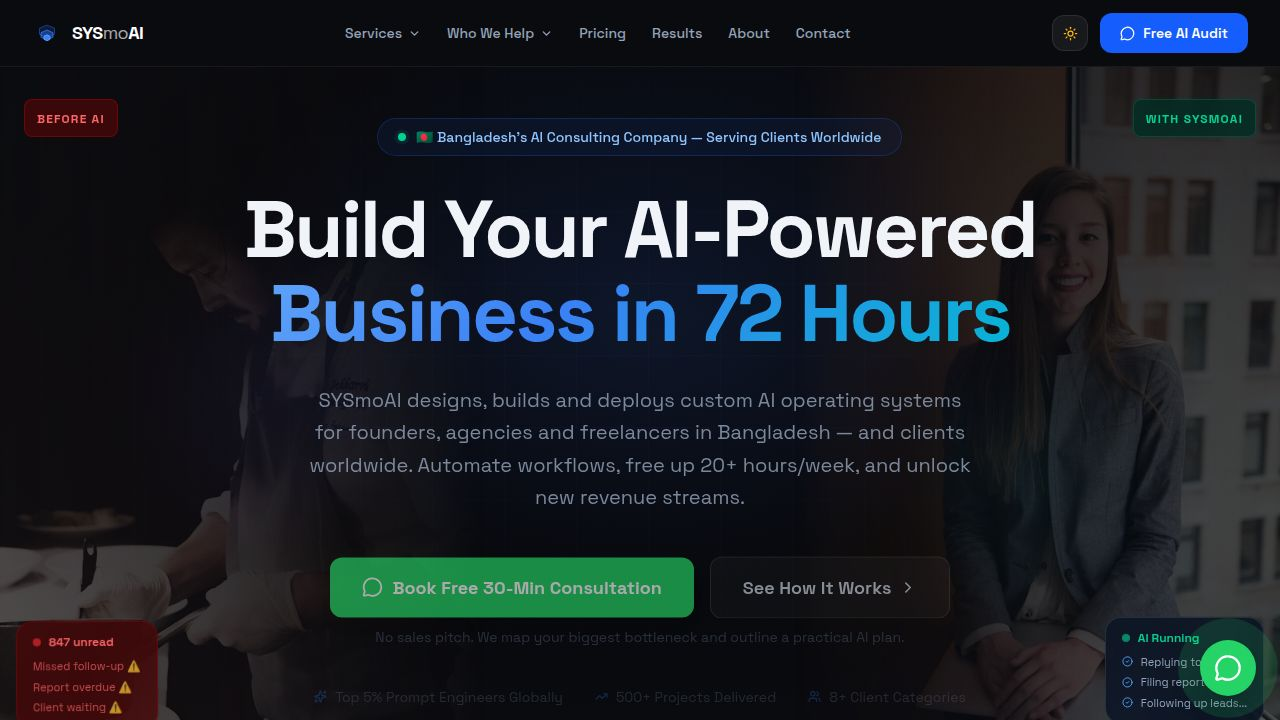
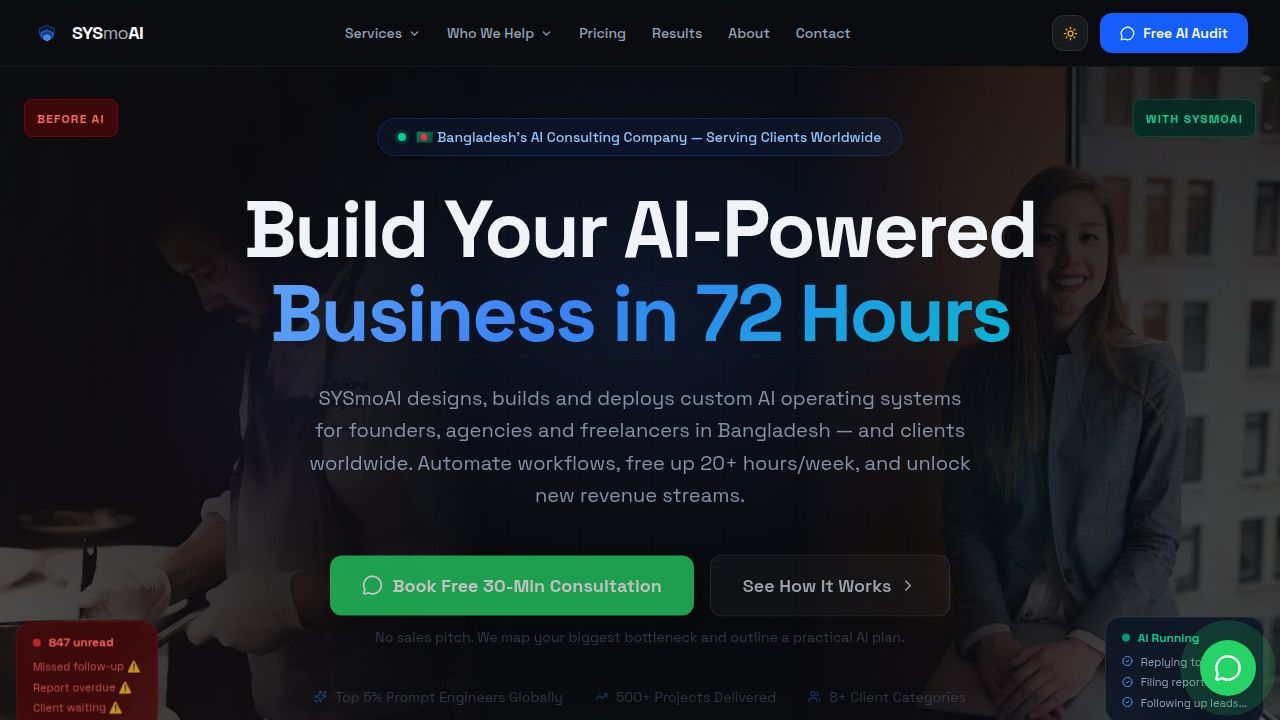
Make skill tags clickable and clean up footer social links
Remove Instagram from footer social links and convert skill tags in Home.tsx to clickable links.

Replit-Commit-Author: Agent
Replit-Commit-Session-Id: 44d8bef4-fb65-4180-9b65-3dc5a3072386
Replit-Commit-Checkpoint-Type: full_checkpoint
Replit-Commit-Event-Id: ed8a9fc4-0653-4cea-8cf8-d844c9018726
Replit-Commit-Screenshot-Url: https://storage.googleapis.com/screenshot-production-us-central1/dfec9785-d152-43c8-b92b-7e0191723b47/44d8bef4-fb65-4180-9b65-3dc5a3072386/eq0ZuDv
Replit-Helium-Checkpoint-Created: true

Changed region(s): [[0.25, 0.5194, 0.75, 0.7028], [0.25, 0.7639, 0.5312, 0.8556], [0.5625, 0.7944, 0.7188, 0.825]]

diff --git a/artifacts/sysmoai-website/src/components/Footer.tsx b/artifacts/sysmoai-website/src/components/Footer.tsx
@@ -68,17 +68,6 @@ export function Footer() {
                   <path d="M20.447 20.452h-3.554v-5.569c0-1.328-.027-3.037-1.852-3.037-1.853 0-2.136 1.445-2.136 2.939v5.667H9.351V9h3.414v1.561h.046c.477-.9 1.637-1.85 3.37-1.85 3.601 0 4.267 2.37 4.267 5.455v6.286zM5.337 7.433c-1.144 0-2.063-.926-2.063-2.065 0-1.138.92-2.063 2.063-2.063 1.14 0 2.064.925 2.064 2.063 0 1.139-.925 2.065-2.064 2.065zm1.782 13.019H3.555V9h3.564v11.452zM22.225 0H1.771C.792 0 0 .774 0 1.729v20.542C0 23.227.792 24 1.771 24h20.451C23.2 24 24 23.227 24 22.271V1.729C24 .774 23.2 0 22.222 0h.003z"/>
                 </svg>
               </a>
-              <a href="https://www.instagram.com/sysmoai/"
-                target="_blank" rel="noopener noreferrer"
-                aria-label="SYSmoAI on Instagram"
-                className="w-10 h-10 rounded-lg flex items-center justify-center transition-all duration-200"
-                style={{ background: isDark ? 'rgba(255,255,255,0.06)' : '#F1F5F9', color: textColor }}
-                onMouseEnter={e => { e.currentTarget.style.background = '#E1306C'; e.currentTarget.style.color = '#FFFFFF'; }}
-                onMouseLeave={e => { e.currentTarget.style.background = isDark ? 'rgba(255,255,255,0.06)' : '#F1F5F9'; e.currentTarget.style.color = textColor; }}>
-                <svg className="w-5 h-5" fill="currentColor" viewBox="0 0 24 24">
-                  <path d="M12 2.163c3.204 0 3.584.012 4.85.07 3.252.148 4.771 1.691 4.919 4.919.058 1.265.069 1.645.069 4.849 0 3.205-.012 3.584-.069 4.849-.149 3.225-1.664 4.771-4.919 4.919-1.266.058-1.644.07-4.85.07-3.204 0-3.584-.012-4.849-.07-3.26-.149-4.771-1.699-4.919-4.92-.058-1.265-.07-1.644-.07-4.849 0-3.204.013-3.583.07-4.849.149-3.227 1.664-4.771 4.919-4.919 1.266-.057 1.645-.069 4.849-.069zm0-2.163c-3.259 0-3.667.014-4.947.072-4.358.2-6.78 2.618-6.98 6.98-.059 1.281-.073 1.689-.073 4.948 0 3.259.014 3.668.072 4.948.2 4.358 2.618 6.78 6.98 6.98 1.281.058 1.689.072 4.948.072 3.259 0 3.668-.014 4.948-.072 4.354-.2 6.782-2.618 6.979-6.98.059-1.28.073-1.689.073-4.948 0-3.259-.014-3.667-.072-4.947-.196-4.354-2.617-6.78-6.979-6.98-1.281-.059-1.69-.073-4.949-.073zm0 5.838c-3.403 0-6.162 2.759-6.162 6.162s2.759 6.163 6.162 6.163 6.162-2.759 6.162-6.163c0-3.403-2.759-6.162-6.162-6.162zm0 10.162c-2.209 0-4-1.79-4-4 0-2.209 1.791-4 4-4s4 1.791 4 4c0 2.21-1.791 4-4 4zm6.406-11.845c-.796 0-1.441.645-1.441 1.44s.645 1.44 1.441 1.44c.795 0 1.439-.645 1.439-1.44s-.644-1.44-1.439-1.44z"/>
-                </svg>
-              </a>
               <a href="https://www.youtube.com/@sysmoai"
                 target="_blank" rel="noopener noreferrer"
                 aria-label="SYSmoAI on YouTube"

diff --git a/artifacts/sysmoai-website/src/pages/Home.tsx b/artifacts/sysmoai-website/src/pages/Home.tsx
@@ -1071,21 +1071,35 @@ export default function Home() {
               </blockquote>
               <div className="flex flex-wrap gap-2">
                 {[
-                  'AI Systems Architecture', 'Top 5% Prompt Engineering', 'Notion OS',
-                  'n8n Automation', 'AI Agent Design', '500+ Projects Delivered',
-                  'SEO Expert', 'AI Coaching',
+                  { label: 'AI Systems Architecture',    href: '/services/ai-sprint'     },
+                  { label: 'Top 5% Prompt Engineering',  href: '/proof'                  },
+                  { label: 'Notion OS',                  href: '/services/notion-os'     },
+                  { label: 'n8n Automation',             href: '/services/n8n-automation'},
+                  { label: 'AI Agent Design',            href: '/services/ai-agent-dev'  },
+                  { label: '500+ Projects Delivered',    href: '/proof'                  },
+                  { label: 'SEO Expert',                 href: '/services'               },
+                  { label: 'AI Coaching',                href: '/services/ai-coaching'   },
                 ].map(tag => (
-                  <span
-                    key={tag}
-                    className="px-3 py-1 text-sm font-medium rounded-full border"
+                  <a
+                    key={tag.label}
+                    href={tag.href}
+                    className="px-3 py-1 text-sm font-medium rounded-full border cursor-pointer no-underline transition-all duration-150"
                     style={{
                       background: isDark ? 'rgba(37,99,235,0.1)' : '#EFF6FF',
                       color: '#3B82F6',
                       borderColor: isDark ? 'rgba(59,130,246,0.2)' : '#BFDBFE',
                     }}
+                    onMouseEnter={e => {
+                      (e.currentTarget as HTMLAnchorElement).style.background = isDark ? 'rgba(37,99,235,0.2)' : '#DBEAFE';
+                      (e.currentTarget as HTMLAnchorElement).style.borderColor = '#93C5FD';
+                    }}
+                    onMouseLeave={e => {
+                      (e.currentTarget as HTMLAnchorElement).style.background = isDark ? 'rgba(37,99,235,0.1)' : '#EFF6FF';
+                      (e.currentTarget as HTMLAnchorElement).style.borderColor = isDark ? 'rgba(59,130,246,0.2)' : '#BFDBFE';
+                    }}
                   >
-                    {tag}
-                  </span>
+                    {tag.label}
+                  </a>
                 ))}
               </div>
             </div>
